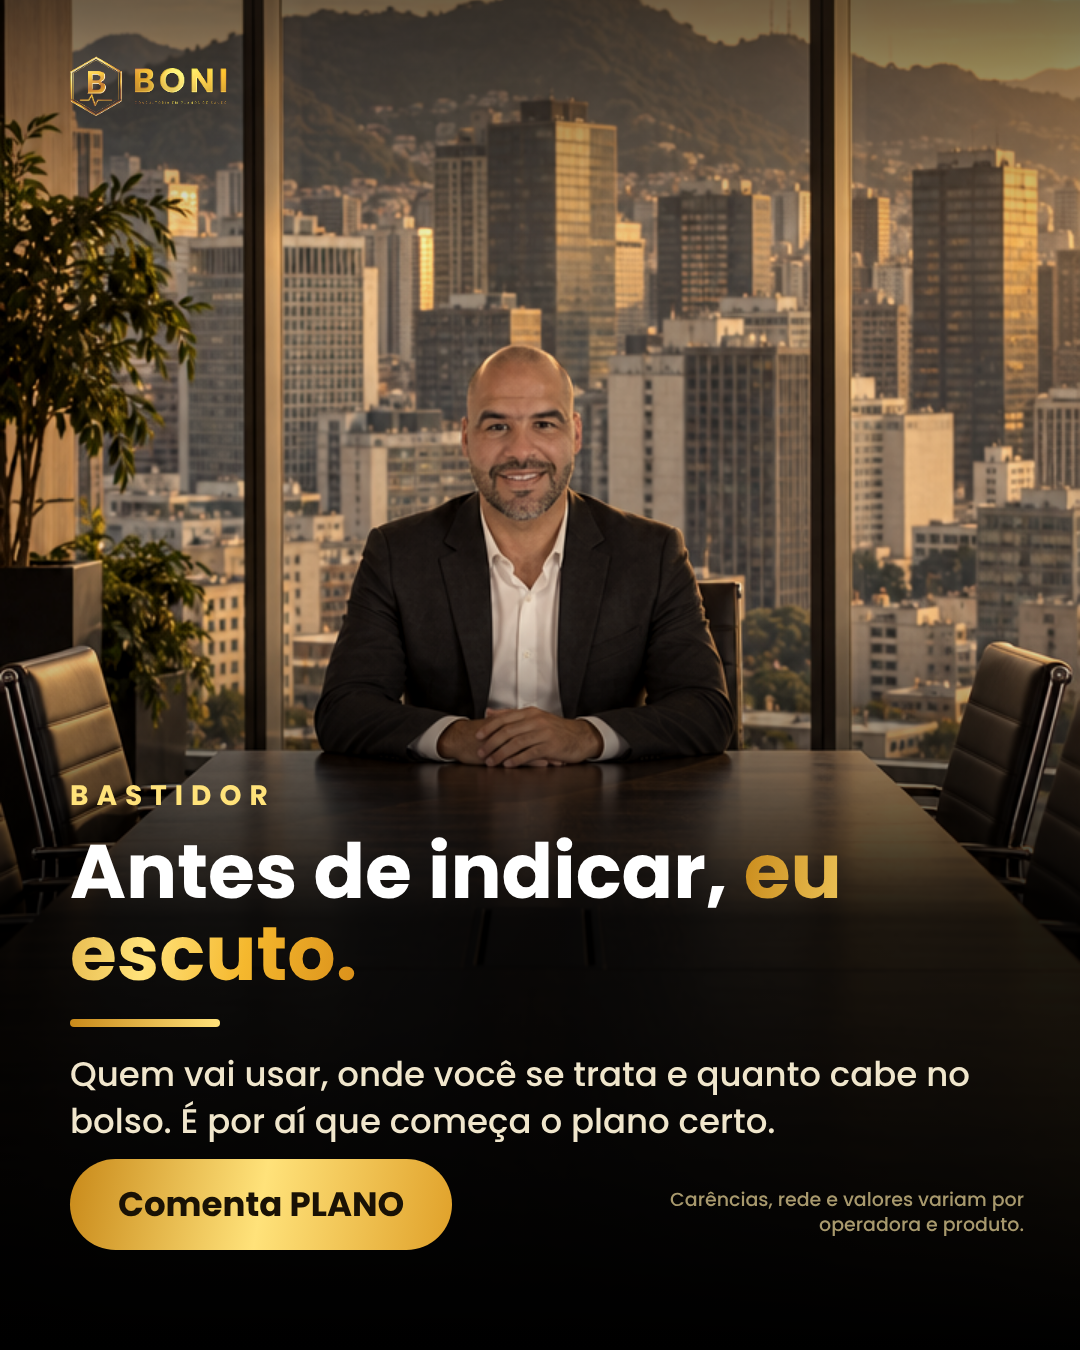
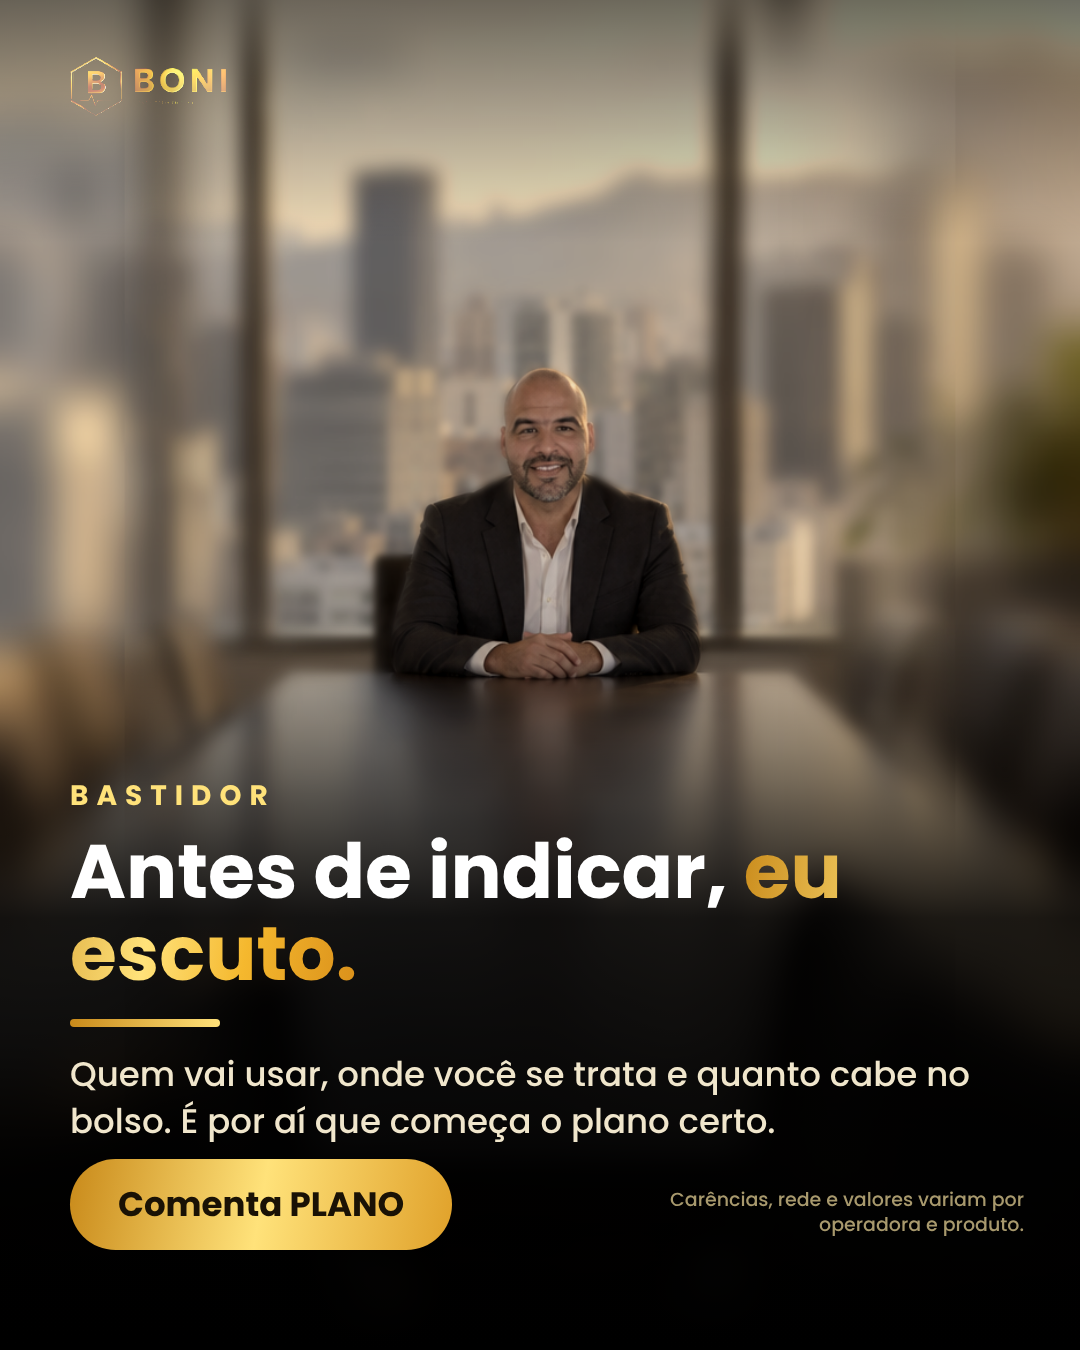
Post 22: visual mais distante com fundo desfocado
Claude-Session: https://claude.ai/code/session_016UNNimnYsNx4a66oMiDygB

diff --git a/posts/22-antes-eu-escuto/_foto.html b/posts/22-antes-eu-escuto/_foto.html
@@ -3,7 +3,7 @@
 @font-face{font-family:P;font-weight:700;src:url('file:///home/claude/boni-instagram-posts/fontes/Poppins-Bold.ttf')}
 *{margin:0;padding:0;box-sizing:border-box}
 .s{width:1080px;height:1350px;position:relative;overflow:hidden;background:#000;font-family:P,sans-serif;color:#fff}
-.bg{position:absolute;left:0;top:-260px;width:1080px;filter:sepia(.25) saturate(1.1) brightness(.92) contrast(1.06)}
+.bg{position:absolute;left:0;top:-230px;width:1080px;filter:sepia(.25) saturate(1.1) brightness(.92) contrast(1.06)}
 .ov{position:absolute;inset:0;background:linear-gradient(180deg,rgba(0,0,0,.55) 0%,rgba(0,0,0,0) 18%,rgba(0,0,0,0) 46%,rgba(0,0,0,.88) 68%,#000 100%)}
 .lg{position:absolute;left:56px;top:46px;height:80px;mix-blend-mode:lighten}
 .gold{background:linear-gradient(100deg,#c98a1a,#ffe27a 45%,#f5b82e 70%,#d98f1a);-webkit-background-clip:text;color:transparent}
@@ -14,4 +14,4 @@
 .p{font-size:34px;font-weight:500;line-height:1.38;color:#f0e6cc}
 .btn{position:absolute;left:70px;bottom:100px;padding:20px 48px;border-radius:60px;background:linear-gradient(100deg,#c98a1a,#ffe27a 50%,#e0a12a);color:#1a1205;font-size:34px;font-weight:700}
 .av{position:absolute;right:56px;bottom:112px;width:420px;text-align:right;font-size:19px;color:#a8996d;line-height:1.35}
-</style></head><body><section class="s" id="s1"><img class="bg" src="file:///home/claude/boni-instagram-posts/fotos/avatar/reuniao-longe.png"><div class="ov"></div><img class="lg" src="file:///home/claude/boni-instagram-posts/marca/logo-horizontal.png"><div class="blk"><div class="tg">BASTIDOR</div><div class="h">Antes de indicar, <span class="gold">eu escuto.</span></div><div class="ln"></div><div class="p">Quem vai usar, onde você se trata e quanto cabe no bolso. É por aí que começa o plano certo.</div></div><div class="btn">Comenta PLANO</div><div class="av">Carências, rede e valores variam por operadora e produto.</div></section></body></html>
+</style></head><body><section class="s" id="s1"><img class="bg" src="file:///home/claude/boni-instagram-posts/fotos/avatar/reuniao-longe-aberta.png"><div class="ov"></div><img class="lg" src="file:///home/claude/boni-instagram-posts/marca/logo-horizontal.png"><div class="blk"><div class="tg">BASTIDOR</div><div class="h">Antes de indicar, <span class="gold">eu escuto.</span></div><div class="ln"></div><div class="p">Quem vai usar, onde você se trata e quanto cabe no bolso. É por aí que começa o plano certo.</div></div><div class="btn">Comenta PLANO</div><div class="av">Carências, rede e valores variam por operadora e produto.</div></section></body></html>
